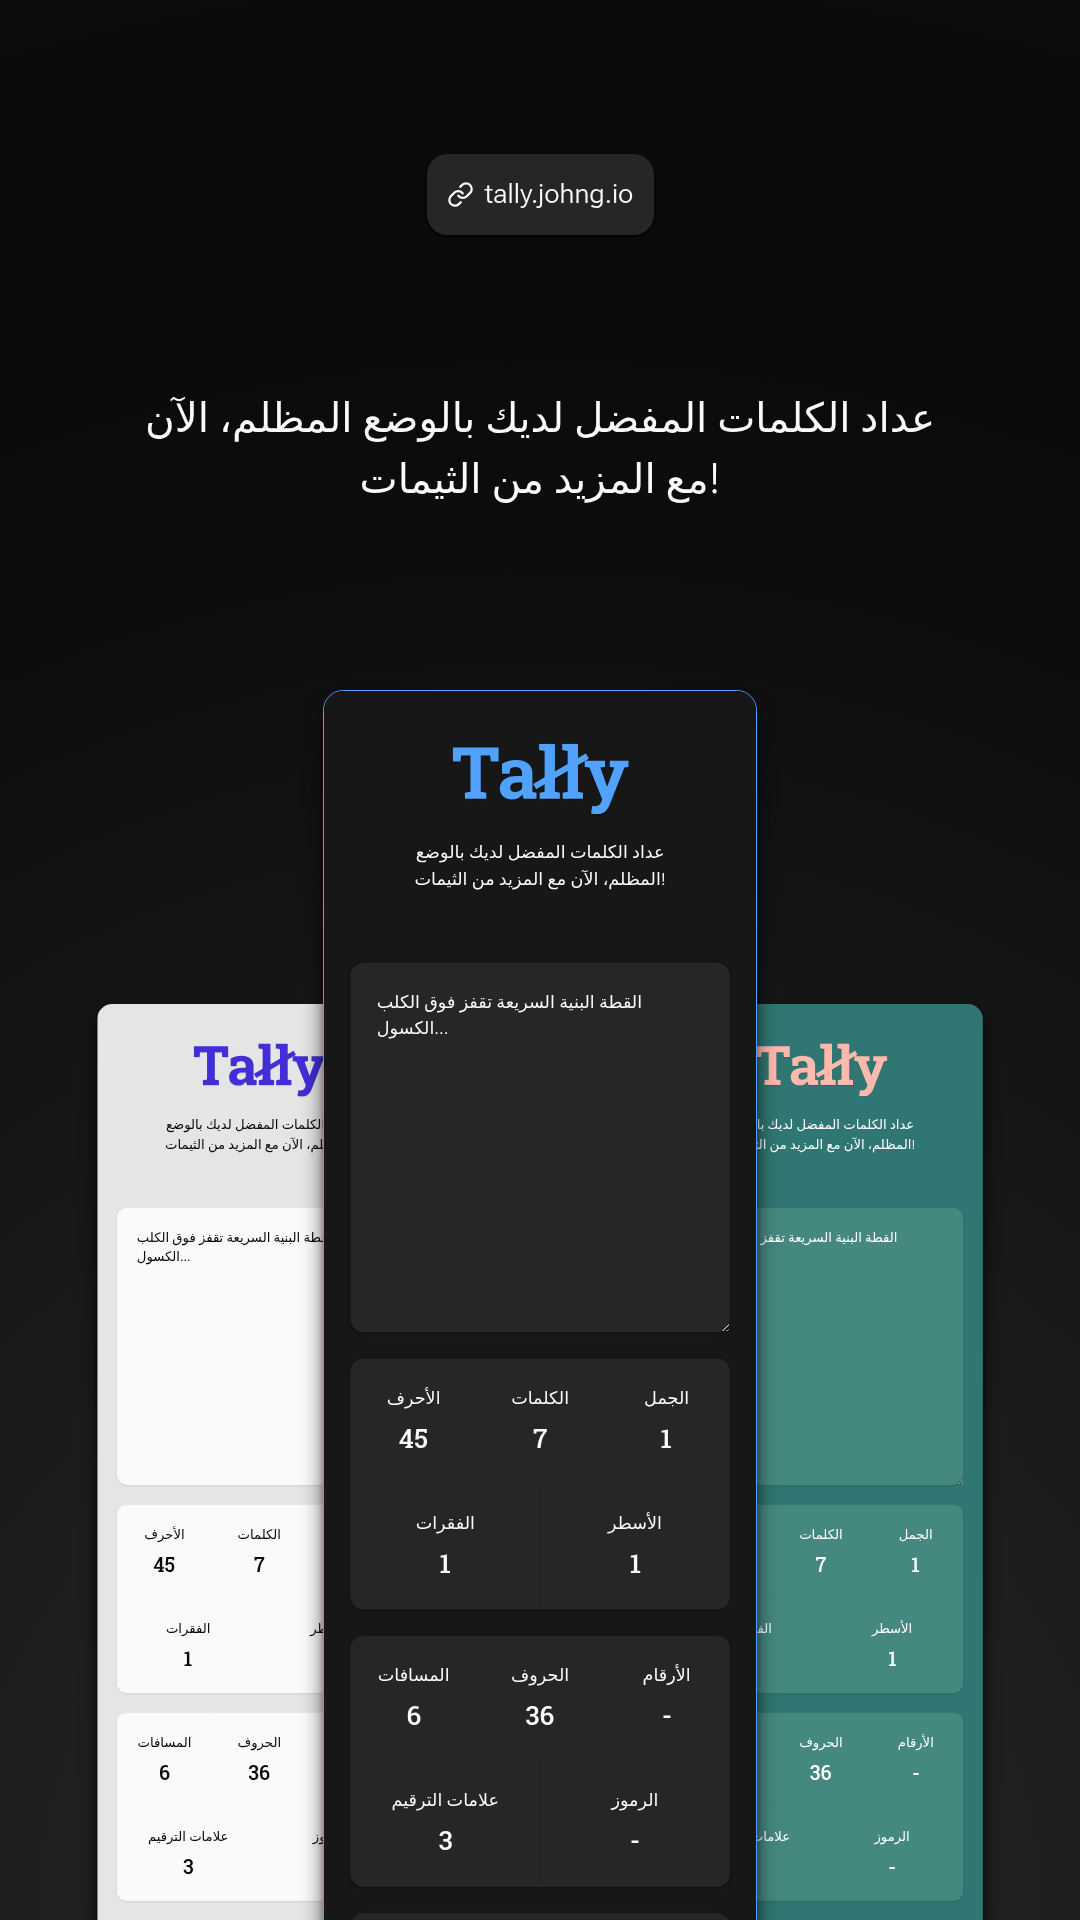
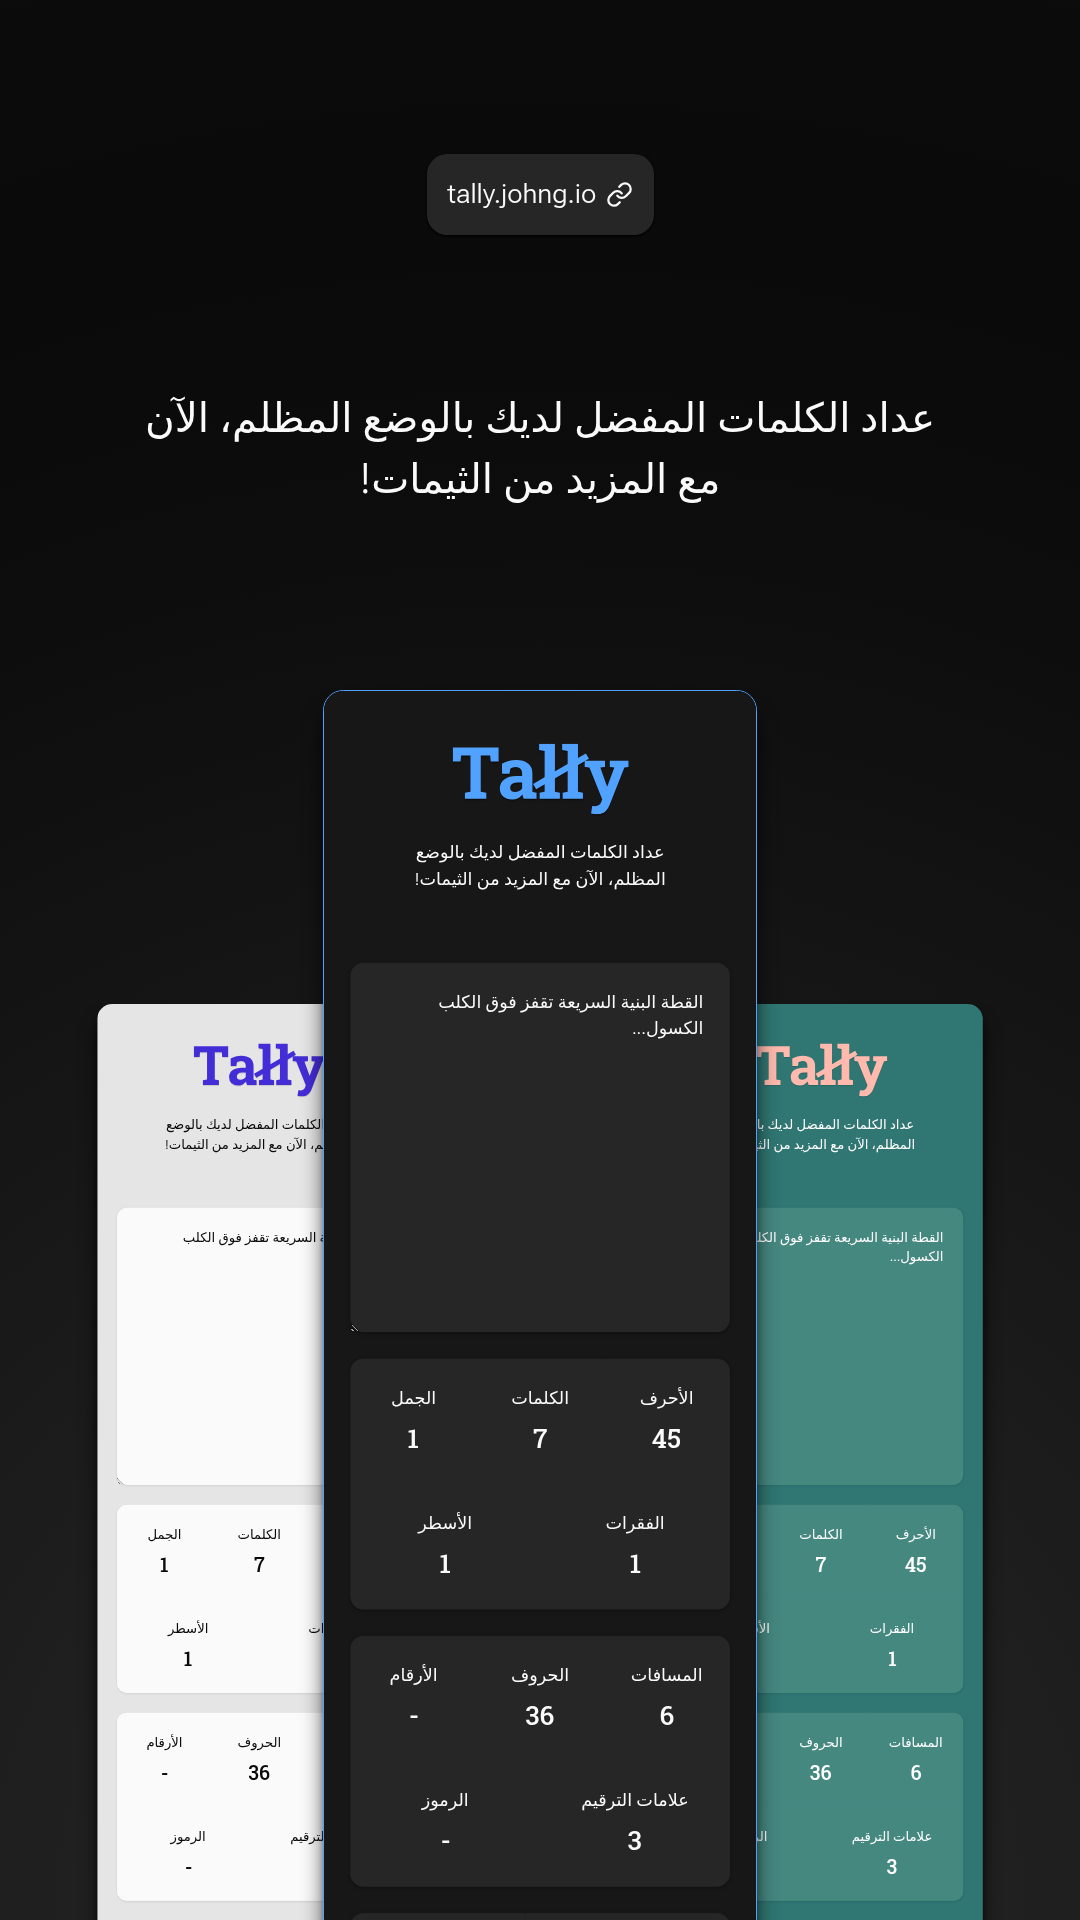
feat: add RTL language layout support (#182)
* feat: add Bdo component and register it with Markdoc

* feat: add rtl property to locale config

* feat: add dir attribute to html element based on current language

* refactor: move logic from InputGroup to selector components for more flexibility

* feat: use Bdo component in LocaleSelector and ar/about.mdoc to fix text direction of emojis

* fix: type errors

* feat: add RTL support to social preview pages

diff --git a/src/config/locale.ts b/src/config/locale.ts
@@ -1,4 +1,18 @@
 /**
+ * Union type of all valid locale IDs.
+ */
+export type LocaleId =
+	| 'en'
+	| 'es'
+	| 'fr'
+	| 'it'
+	| 'de'
+	| 'id'
+	| 'ru'
+	| 'zh'
+	| 'ar';
+
+/**
  * A two-letter uppercase region code (e.g., 'US', 'ES', 'MX').
  */
 export type RegionId = `${Uppercase<string>}${Uppercase<string>}`;
@@ -8,16 +22,20 @@ export type RegionId = `${Uppercase<string>}${Uppercase<string>}`;
  *
  * @property regionId - An optional region ID for the locale
  * @property wip - Whether the locale is still a work in progress
+ * @property rtl - Whether the locale is right-to-left
  */
 export type Locale = {
 	regionId?: RegionId;
 	wip: boolean;
+	rtl: boolean;
 };
 
 /**
  * A record mapping locale IDs to their display names.
  */
-type LocaleMap = Record<string, Locale>;
+type LocaleMap = {
+	[key in LocaleId]: Locale;
+};
 
 /**
  * The complete locale configuration structure.
@@ -32,36 +50,45 @@ type LocaleConfig = {
 	map: LocaleMap;
 };
 
-const localeMap = {
+const localeMap: LocaleMap = {
 	en: {
 		wip: false,
+		rtl: false,
 	},
 	es: {
 		wip: true,
+		rtl: false,
 	},
 	fr: {
 		wip: true,
+		rtl: false,
 	},
 	it: {
 		wip: true,
+		rtl: false,
 	},
 	de: {
 		wip: true,
+		rtl: false,
 	},
 	id: {
 		wip: true,
+		rtl: false,
 	},
 	ru: {
 		wip: false,
+		rtl: false,
 	},
 	zh: {
 		regionId: 'CN',
 		wip: true,
+		rtl: false,
 	},
 	ar: {
 		wip: true,
+		rtl: true,
 	},
-} as const satisfies LocaleMap;
+};
 
 /**
  * Global locale configuration for the application.
@@ -71,8 +98,3 @@ export const LOCALE = {
 	default: 'en',
 	map: localeMap,
 } as const satisfies LocaleConfig;
-
-/**
- * Union type of all valid locale IDs.
- */
-export type LocaleId = keyof typeof localeMap;

diff --git a/src/config-transformer.ts b/src/config-transformer.ts
@@ -3,13 +3,14 @@ import { LOCALE } from './config/locale.ts';
 import { SITE } from './config/site.ts';
 import { SOCIAL_PREVIEW } from './config/social-preview.ts';
 import { keysOf } from './utils/index.ts';
+import type { Config } from '@twocaretcat/astro-snapshot';
 
 /**
  * Configuration for the Astro Snapshot integration.
  *
  * Defines which pages to screenshot and their output settings for social media previews.
  */
-export const ASTRO_SNAPSHOT_CONFIG = {
+export const ASTRO_SNAPSHOT_CONFIG: Config = {
 	pages: mapEntries(LOCALE.map, (localeId) => [
 		`/${localeId}/${SOCIAL_PREVIEW.id}` as const,
 		keysOf(SOCIAL_PREVIEW.map).map((socialPreviewId) => {
